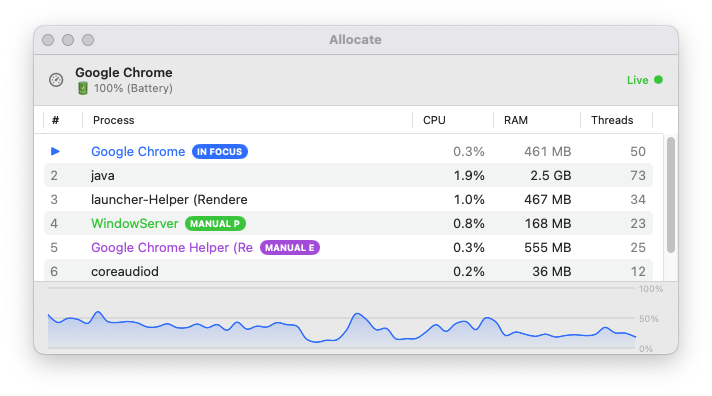
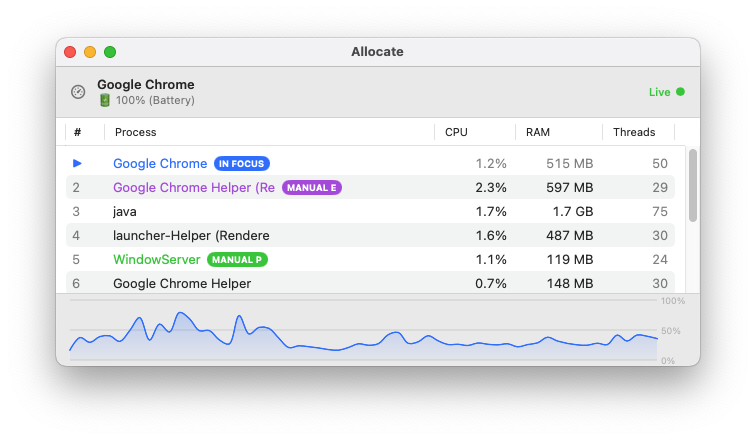
retry thumbnail

diff --git a/allocate-site/index.html b/allocate-site/index.html
@@ -7,12 +7,12 @@
   <meta name="description" content="Allocate: Control your Mac" />
   <meta property="og:title" content="Allocate" />
   <meta property="og:description" content="Allocate: Control your Mac" />
-  <meta property="og:image" content="./assets/allocate-web-preview.png" />
+  <meta property="og:image" content="https://allocate.awzheng.me/assets/allocate-web-preview.png" />
   <meta property="og:type" content="website" />
   <meta name="twitter:card" content="summary_large_image" />
   <meta name="twitter:title" content="Allocate" />
   <meta name="twitter:description" content="Allocate: Control your Mac" />
-  <meta name="twitter:image" content="./assets/allocate-web-preview.png" />
+  <meta name="twitter:image" content="https://allocate.awzheng.me/assets/allocate-web-preview.png" />
   <link rel="stylesheet" href="./dist/output.css" />
   <style>
     body {
